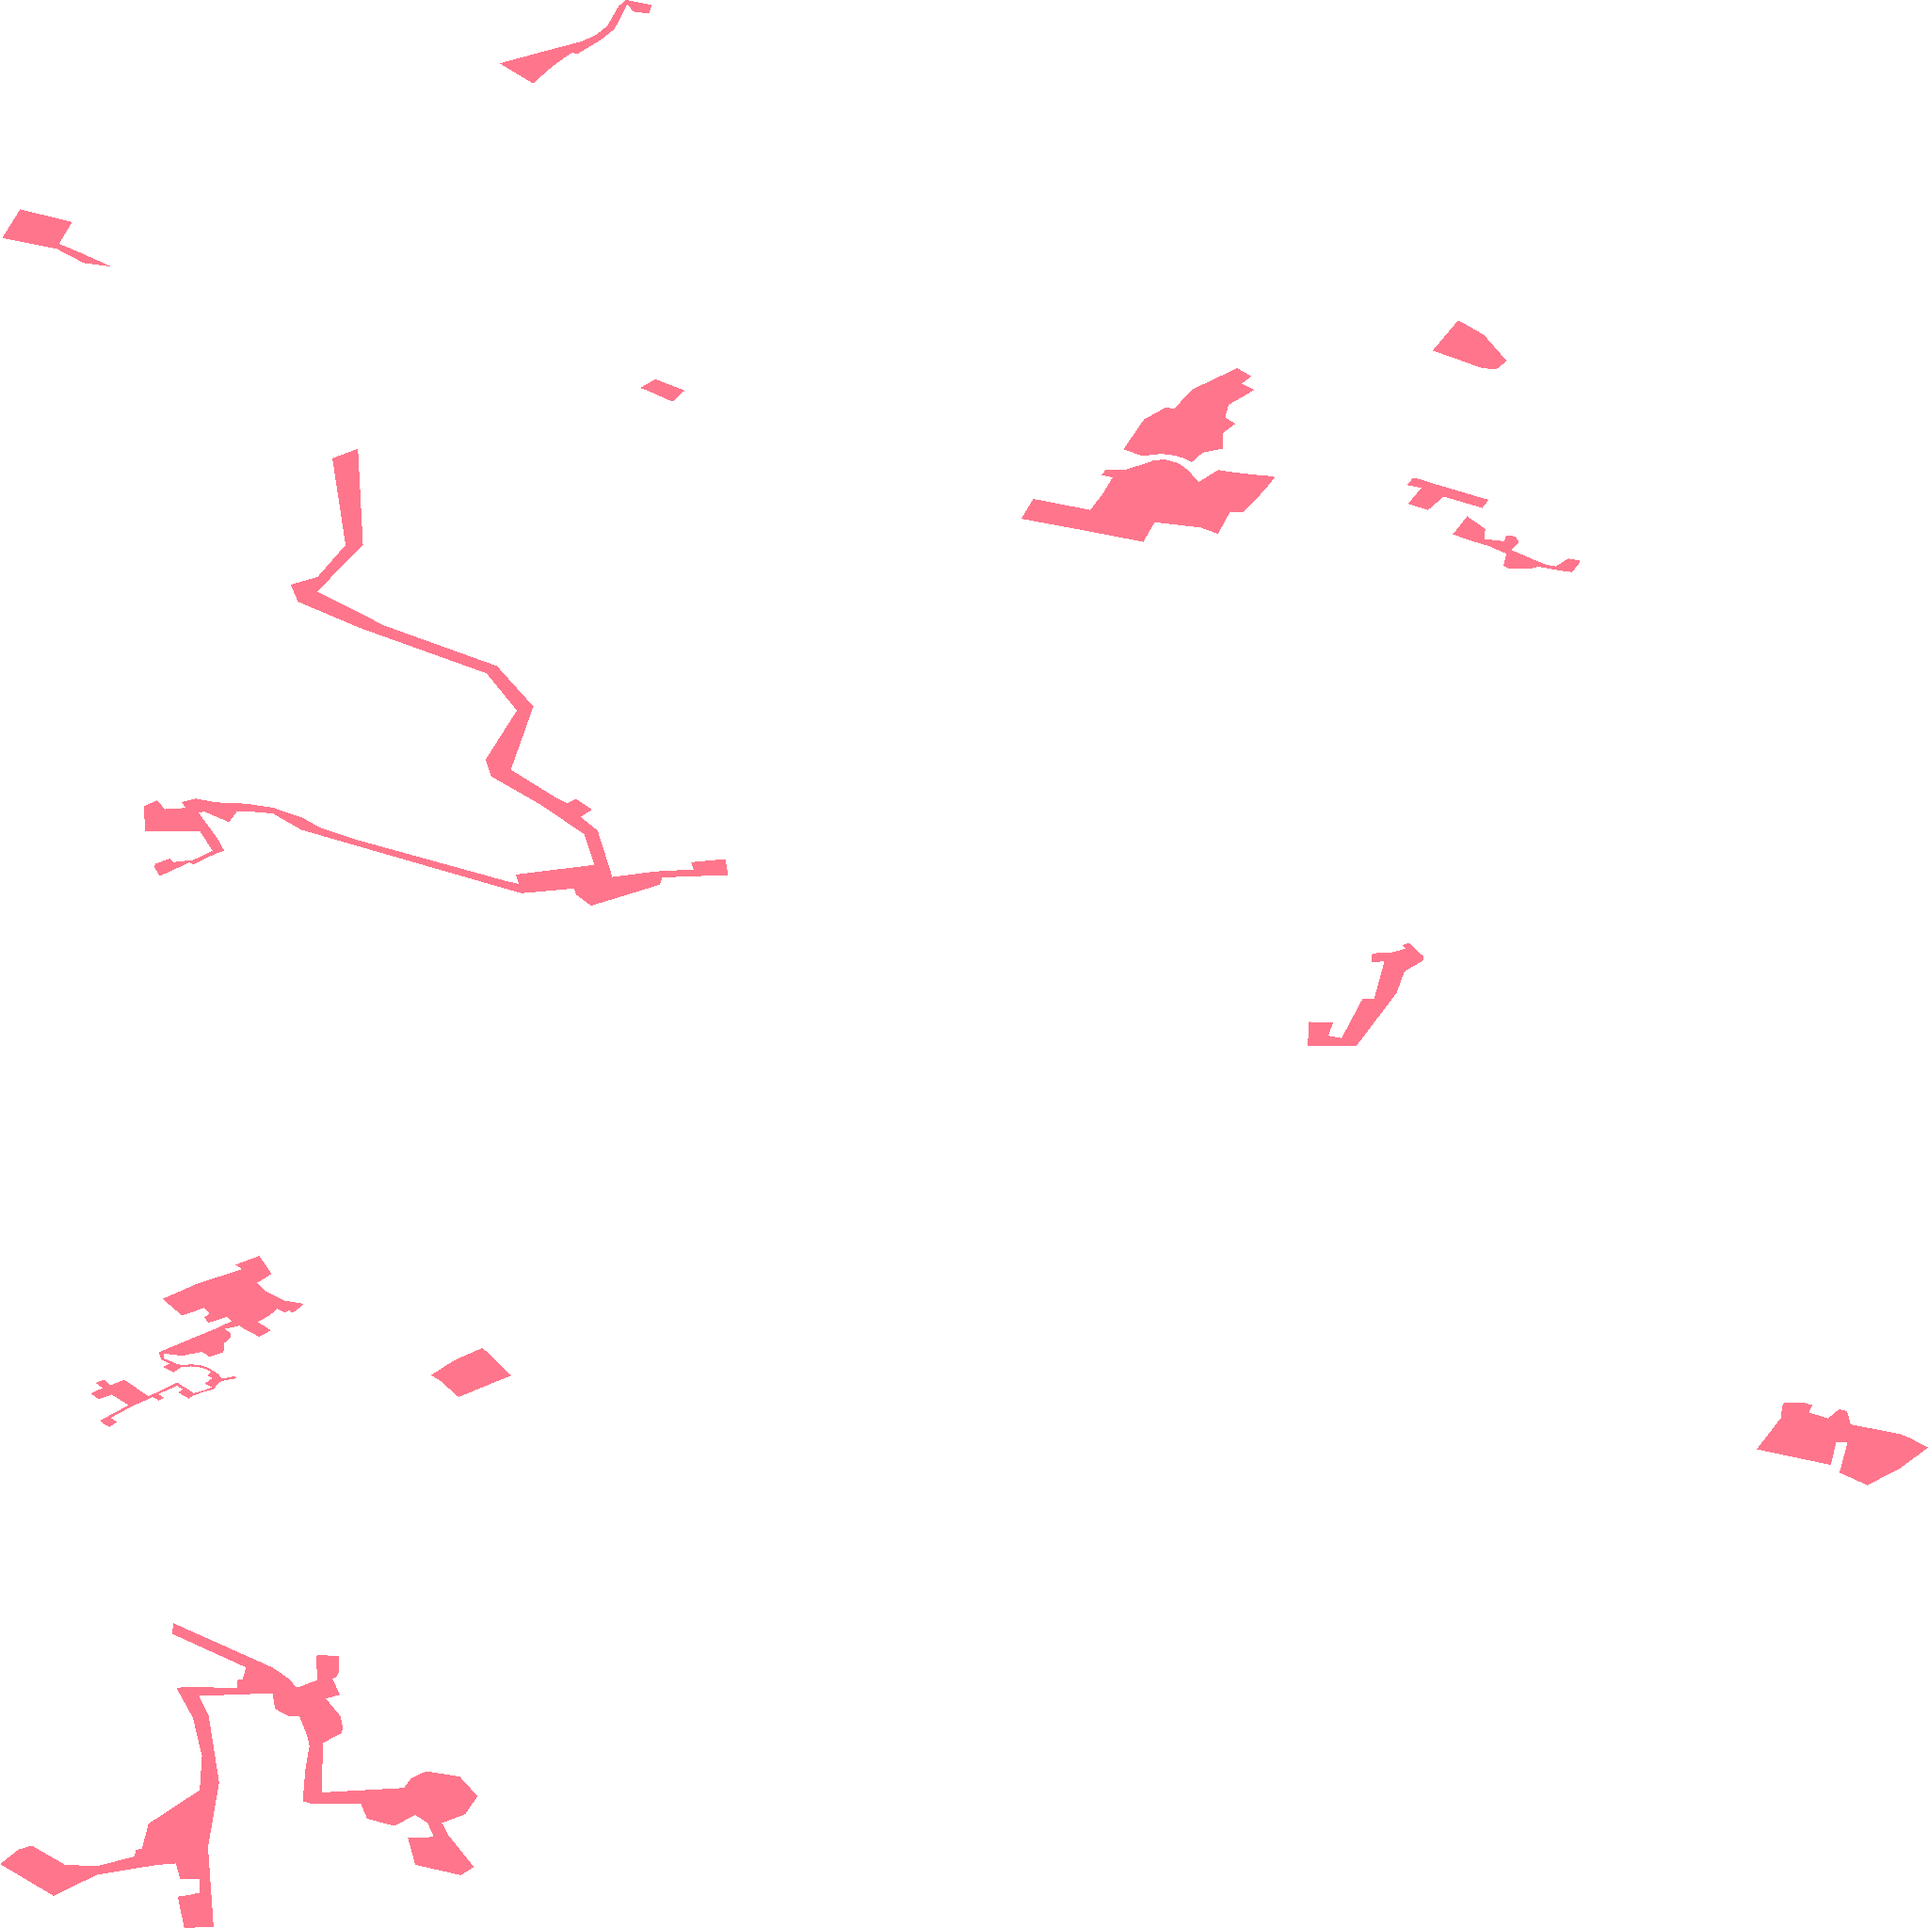
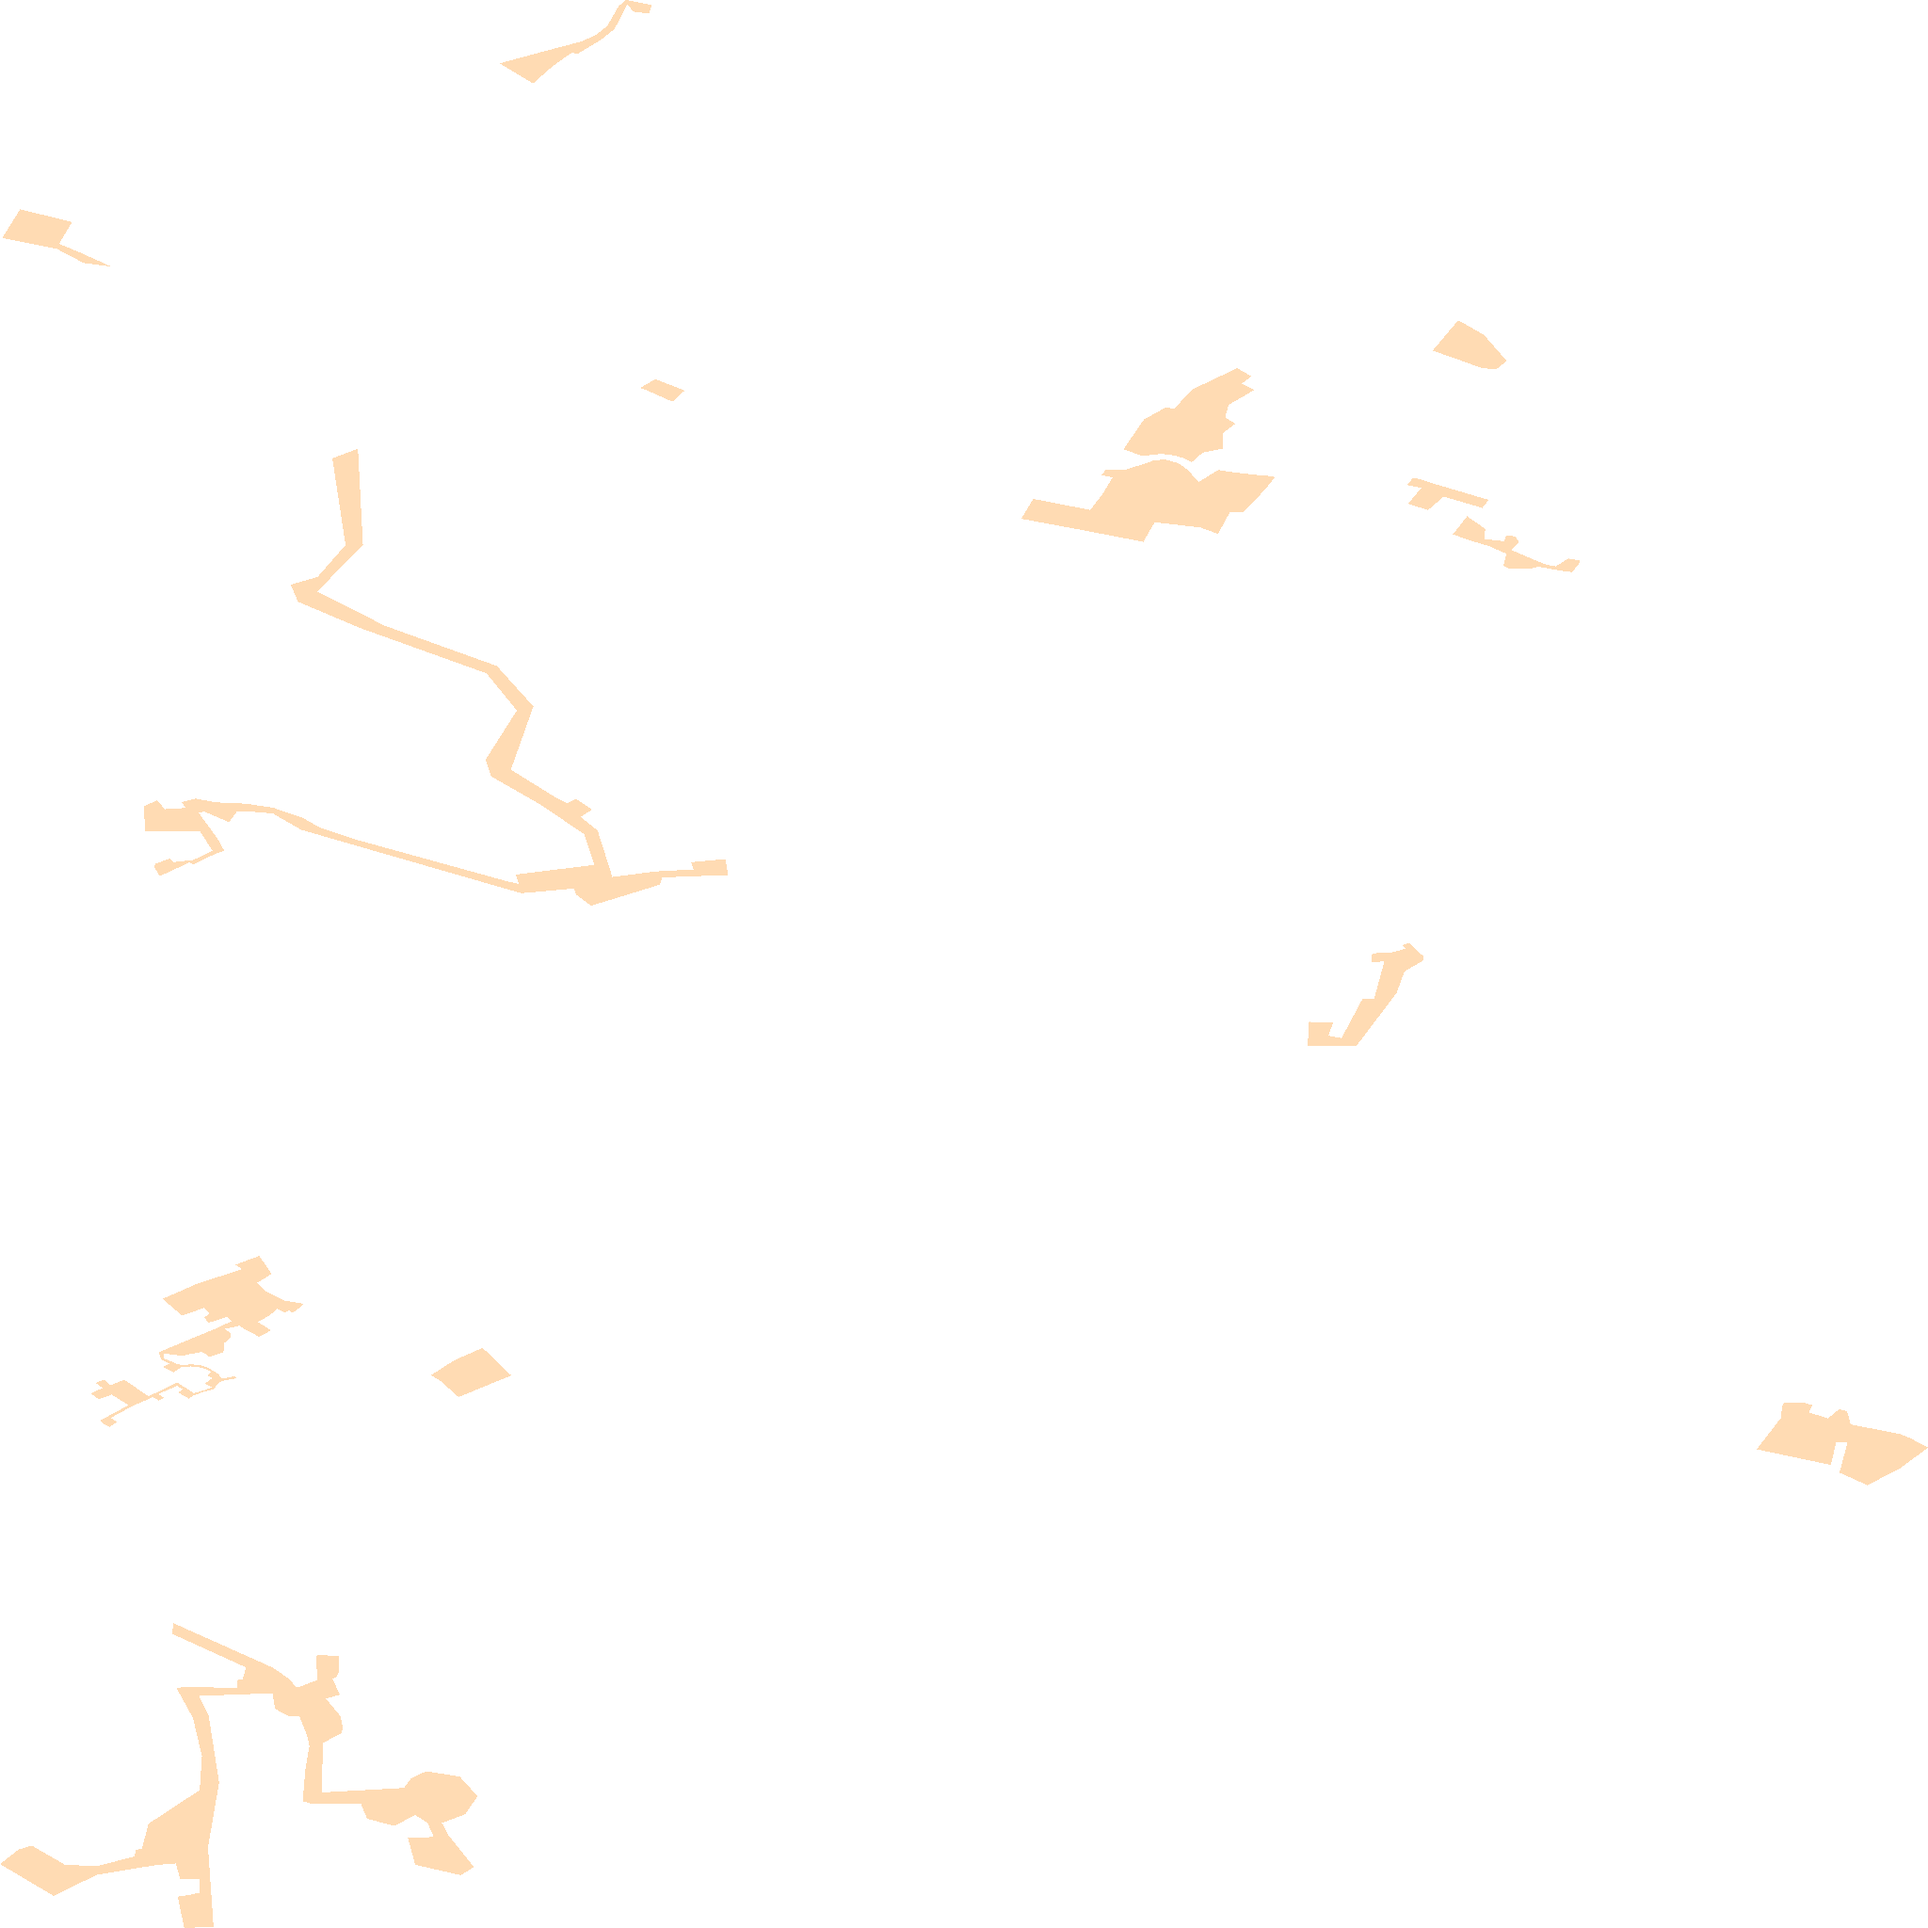
Karte p_614

diff --git a/p_614.html b/p_614.html
@@ -128,8 +128,9 @@
 <body>
     <div id="map"></div>
     <div id="legend">
-        <div><span style="display:inline-block; width:20px; height:10px; background:#FF7F00; margin-right:5px;"></span>Ausbauphase 1: Ausbau bei ausreichender Nachfrage</div>
+        <div><span style="display:inline-block; width:20px; height:10px; background:#FF7F00; margin-right:5px;"></span>Ausbauphase 1: Glasfasernetz vorhanden oder geplant</div>
         <div><span style="display:inline-block;width:20px; height:10px; background:#00143C; margin-right:5px;"></span>Ausbauphase 2: Interessenbekundung möglich</div>
+        <div><span style="display:inline-block;width:20px; height:10px; background:#FFC17D; margin-right:5px;"></span>Ausbauphase 3: Gefördertes Ausbaugebiet </div>
     </div>
     <script>
     const bounds = [[50.36825754, 9.188948226], [50.433602378, 9.250127024]];
